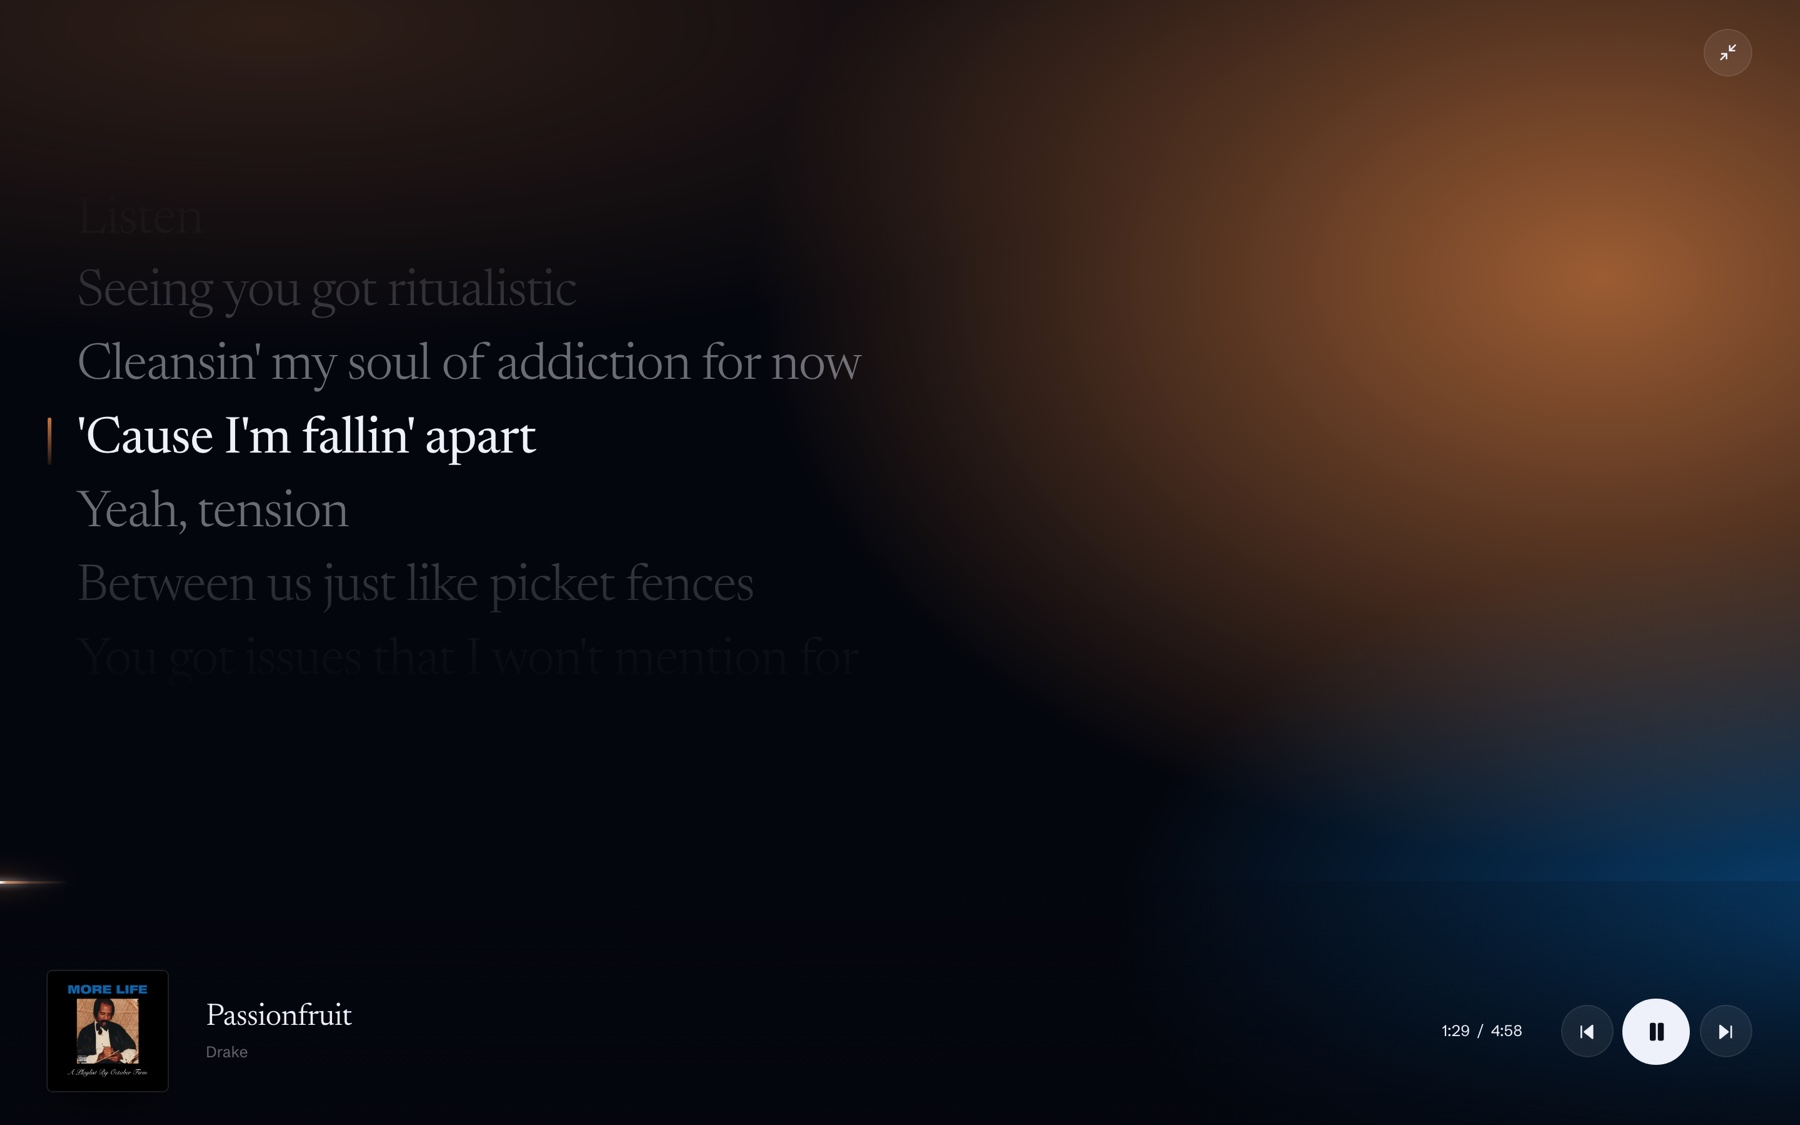
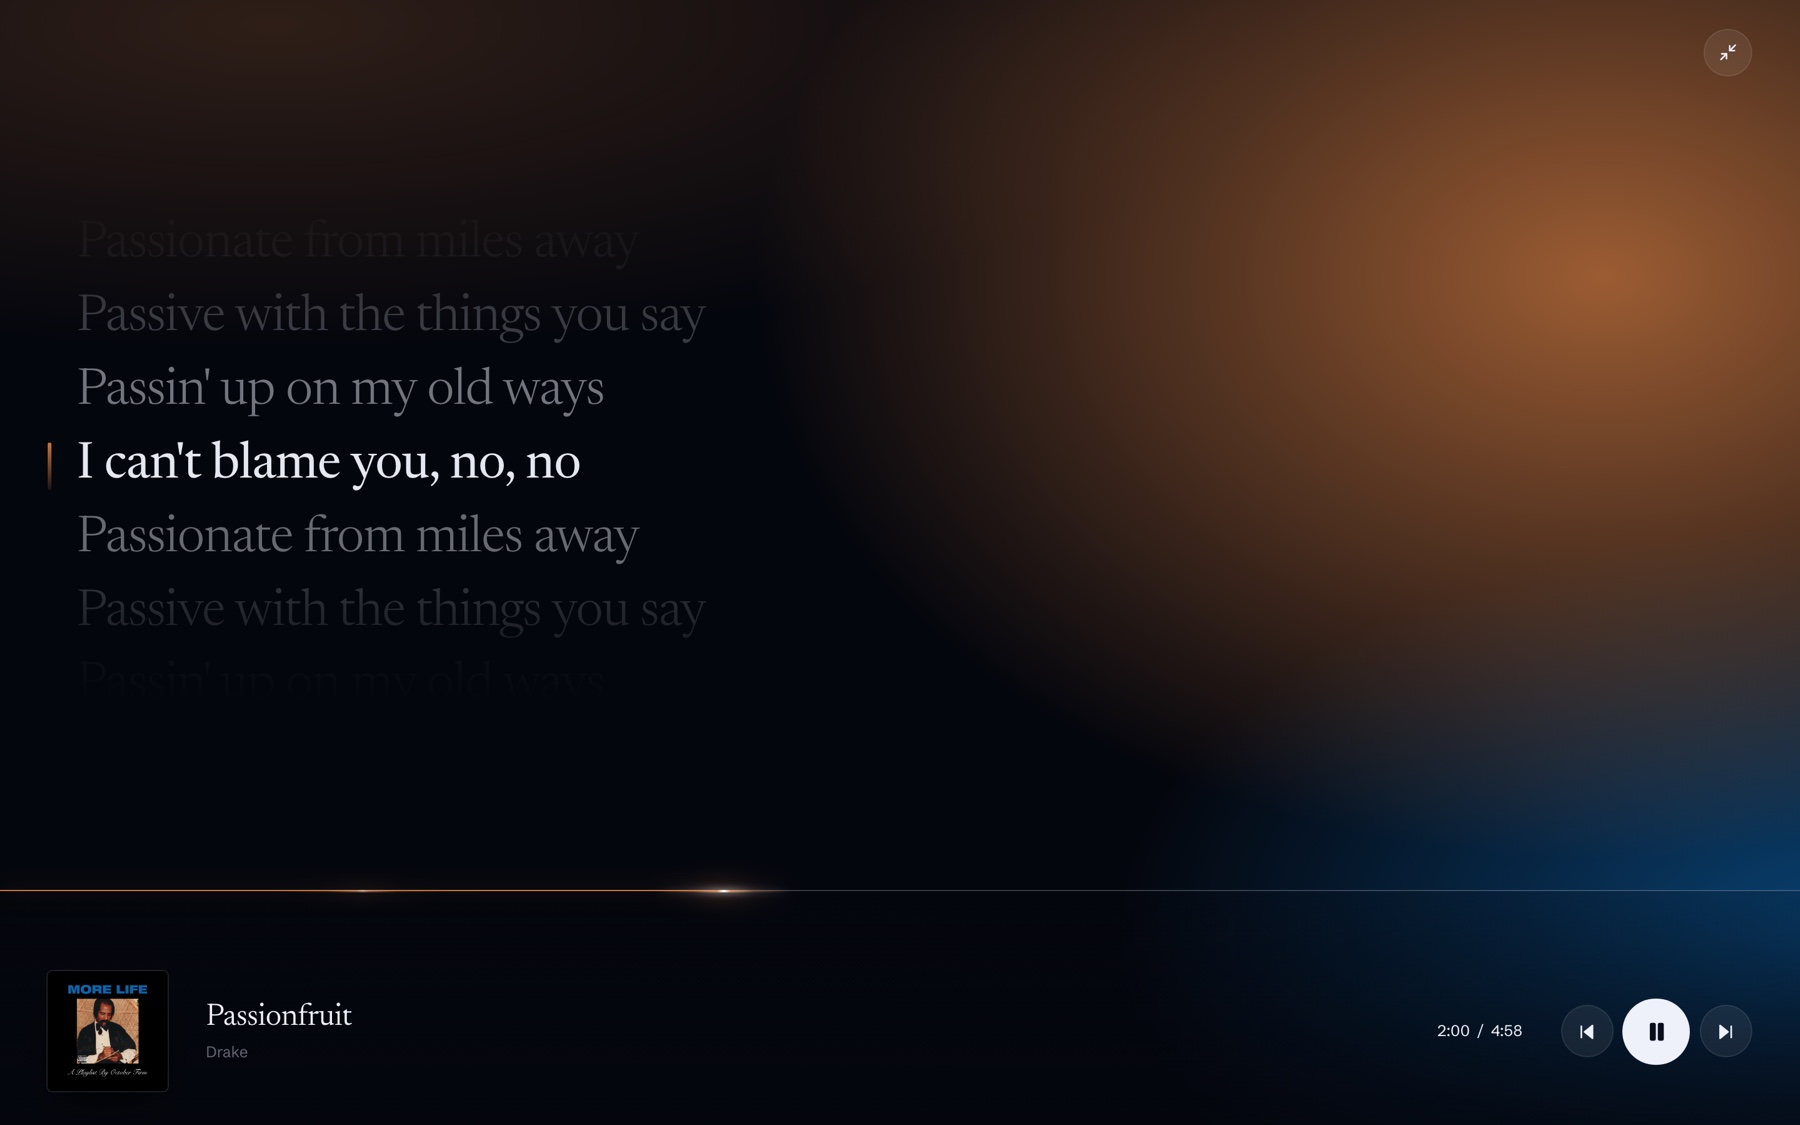
Fix the immersive progress bar, which the last commit collapsed to 0px
The horizon is a <button>, so it seeks on click — and a button is inline-block.
As a direct grid child it was stretched to the column width and that never
mattered. Wrapping it in a plain div to put the tonal edge on the rule (ca028ae)
removed the stretch, so it shrank to the width of its content; its content is
three absolutely-positioned spans, which is nothing. The bar measured 0px, the
rule with it, and no amount of correct arithmetic could show through: the loop
was faithfully writing widths of 22.8%, 23.6%, 24.4% of zero.

The red sliver still visible at the left edge was the travelling light
overflowing the collapsed button, not progress.

  .immersive-horizon { display: block; width: 100%; }

Measured after: horizon and rule both 1440px, lit width advancing 328 → 376px
as the clock runs 1:10 → 1:18, and clicking at 70% and 25% of the bar lands at
213s and 78s of a 300s track.

The unplayed rule also goes from 0.12 to 0.22 alpha. It is the affordance for
skipping, and since ca028ae it shares its line with the sky/ground edge, so it
has to read as brighter than that rather than merge into it.

Stills re-shot again: the ones committed in ca028ae were taken against the
collapsed bar and show no progress at all.

diff --git a/frontend/src/assets/styles.css b/frontend/src/assets/styles.css
@@ -1731,8 +1731,14 @@ h3,
 
 /* ── The horizon ───────────────────────────────────────────────────────── */
 
+/* A button, so it seeks on click — which means it needs to be told to fill its
+   parent. Left as the inline-block a button is by default, it collapses to the
+   width of its content, and its content is three absolutely-positioned spans:
+   nothing. The whole bar then measures 0px and no progress can show. */
 .immersive-horizon {
   position: relative;
+  display: block;
+  width: 100%;
   height: var(--horizon-h);
   cursor: pointer;
   flex-shrink: 0;
@@ -1743,7 +1749,7 @@ h3,
   inset-inline: 0;
   top: 0;
   height: 1px;
-  background: rgba(232, 238, 252, 0.12);
+  background: rgba(232, 238, 252, 0.22);
 }
 
 .immersive-rule-lit {
